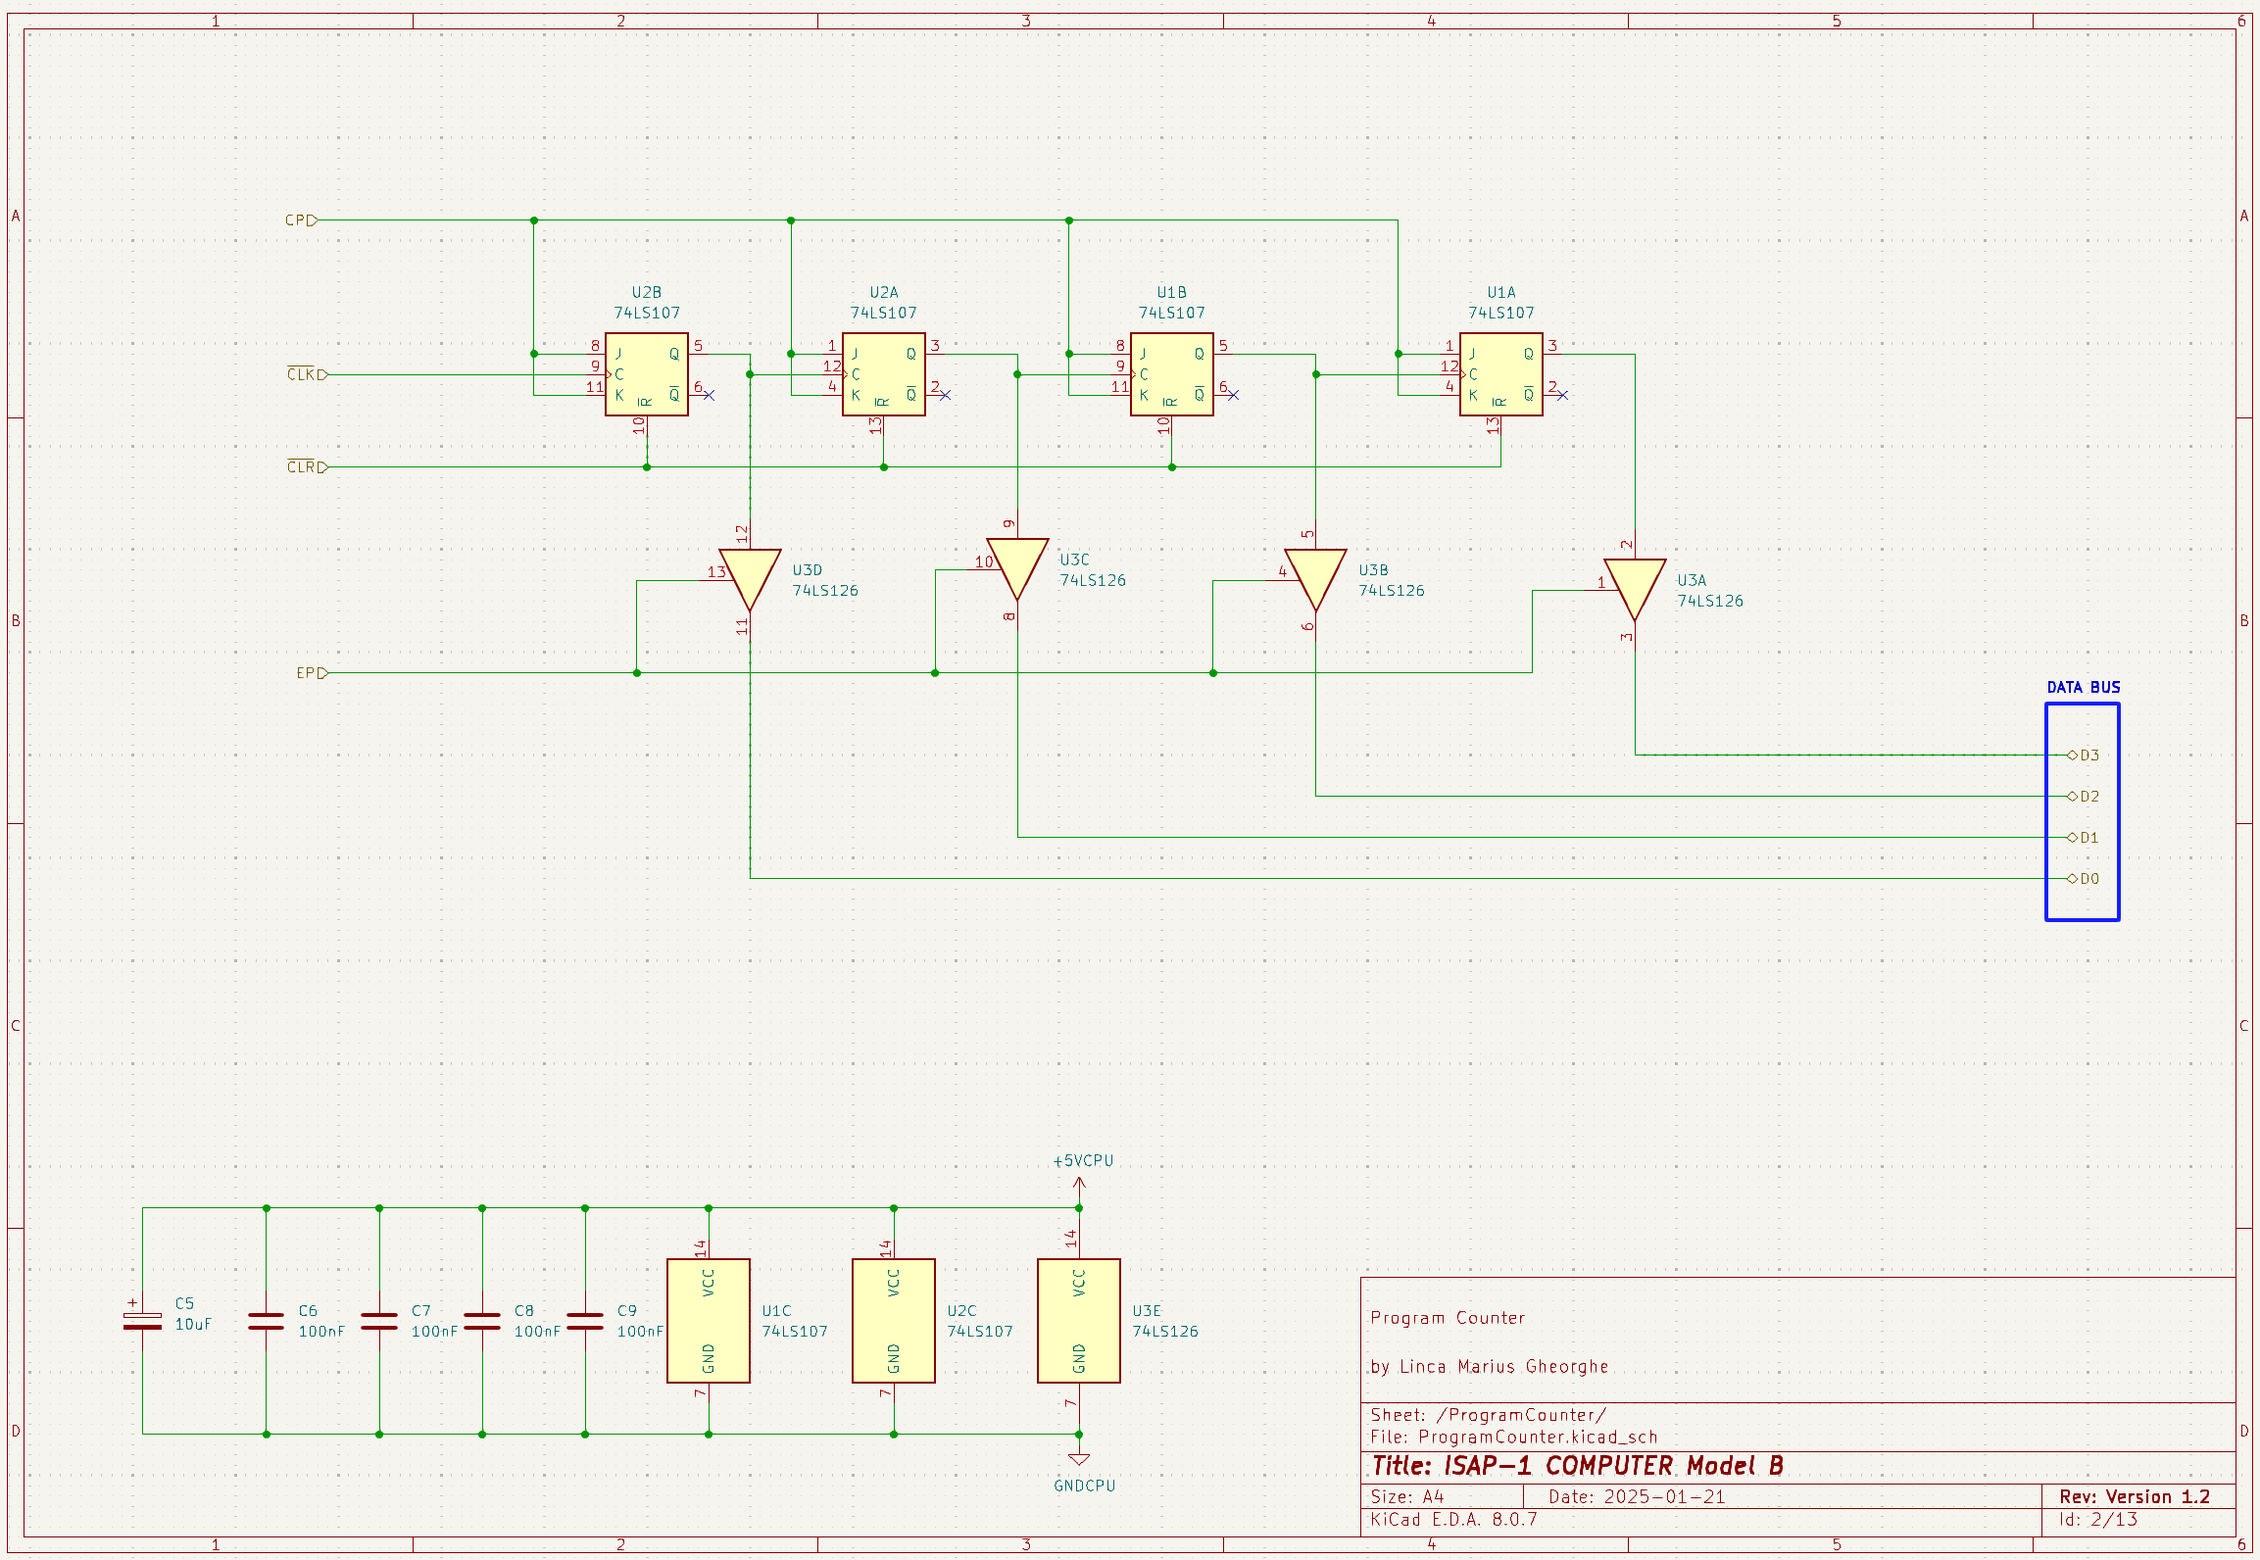
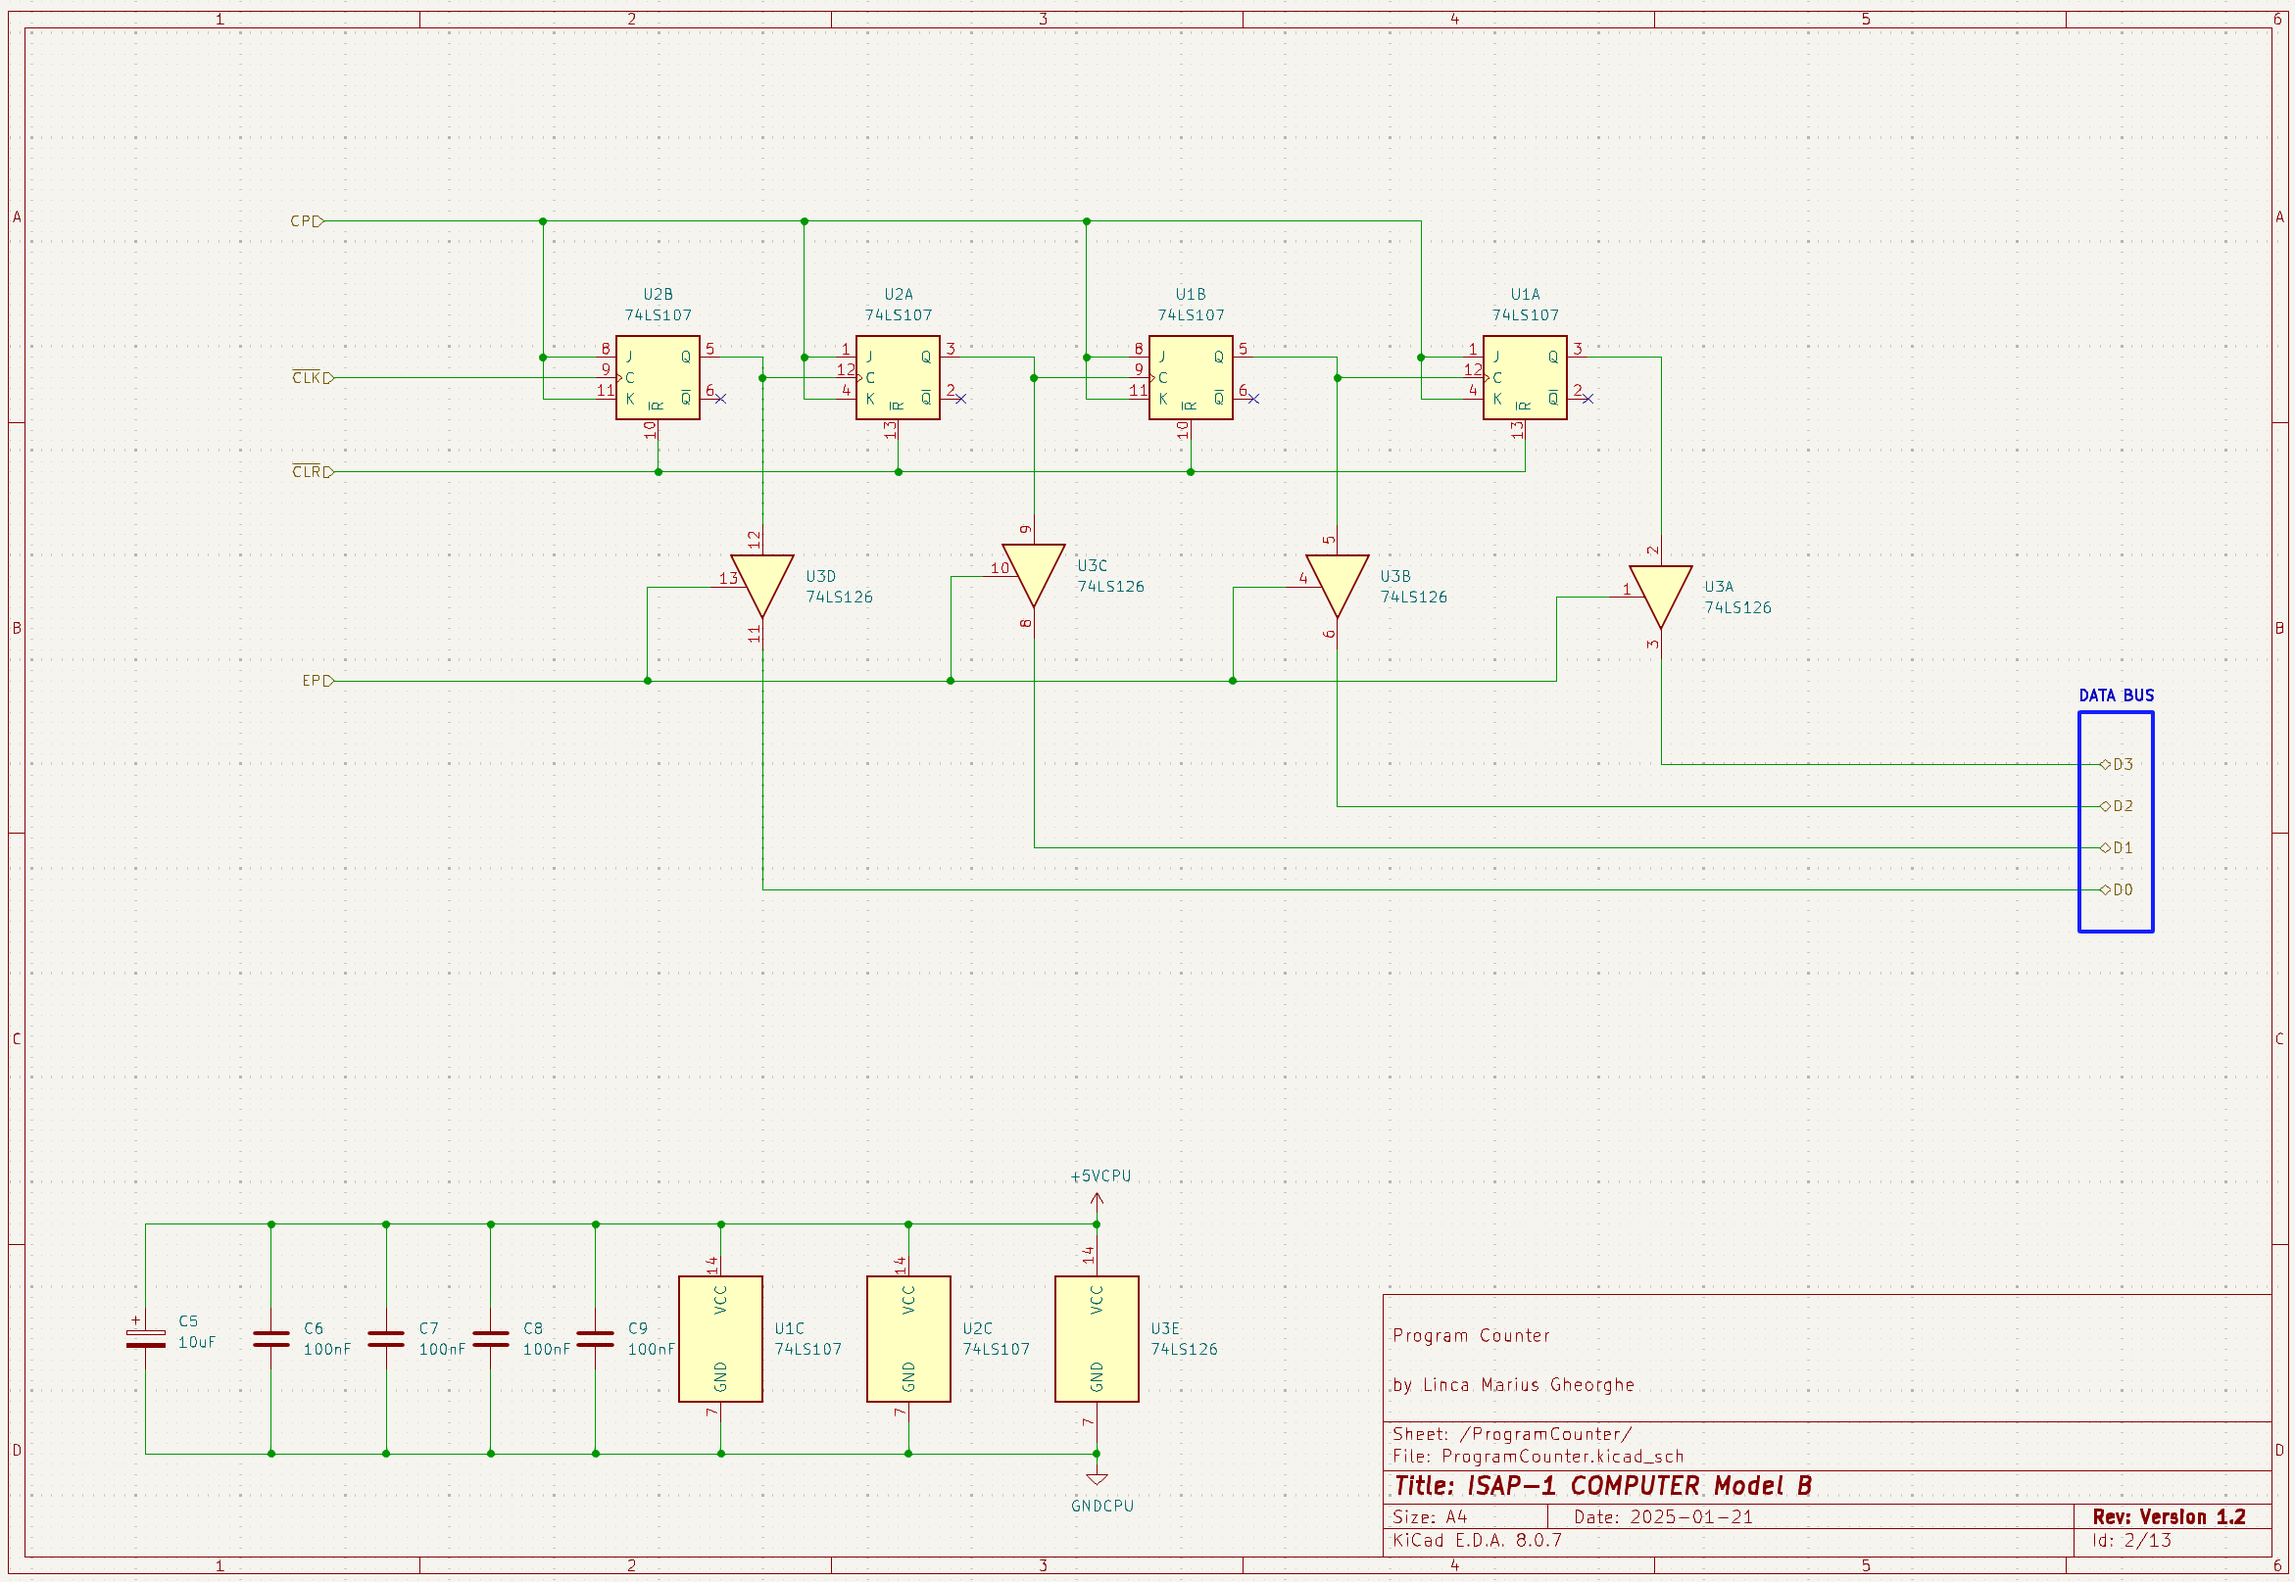
modified:   Pictures/Figure29.png

diff --git a/README.md b/README.md
@@ -400,18 +400,18 @@ In this version I will modify the ISAP-1 Computer by changing it from a Single B
 
 The functionality of the Computer does not change and the Instruction Set does not change.
 
-I will make improvements to the schematic by adding decoupling capacitors.
+Since the SAP-1 Computer does not have decoupling capacitors provided in the original schematic, I will make improvements to the electronic schematic by adding decoupling capacitors for each chip used.
 
 Since the SAP-1 Computer was originally designed in 1975, the power supply uses a mains transformer and a Linear Voltage Regulator. This technology is specific to that time period.
 
 Nowadays, building such a power supply is more expensive compared to modern switching power supplies that are easily available. The purchase price of just the mains transformer is comparable to the purchase price of a modern 5 Volt power supply.
 
-Therefore, I will remove the original power supply from the Project and the Computer will be powered using an external 5 Volt source. This will reduce the overall size and weight of the computer.
+Therefore, I will remove the original power supply from the Project and the Computer will be powered using an external 5 Volt source. This will reduce the overall size and weight of the Computer.
 
 ### Program Counter
 The schematic and functionality are unchanged from the original. I added decoupling capacitors with a value of 100 nF for each chip used.
 
-For example, for 74LS107 the High to Low switching time is normally 15 ns. This time is desired as small as possible to have a high working speed of the computer. So if we consider the transition as half a period of a signal we obtain a maximum period of 30 ns. This corresponds to a frequency of 33 MHz. At these frequencies the wires on the PCB behave as inductances and will increase the switching time. To eliminate this phenomenon we put decoupling capacitors as close as possible to the power pins of the chip.
+For example, for 74LS107 the High to Low switching time is normally 15 ns. This time is desired as small as possible to have a high working speed of the Computer. So if we consider the transition as half a period of a signal we obtain a maximum period of 30 ns. This corresponds to a frequency of 33 MHz. At these frequencies the wires on the PCB behave as inductances and will increase the switching time. To eliminate this phenomenon we put decoupling capacitors as close as possible to the power pins of the chip.
 
 The new schematic for the Program Counter Block is:
 
